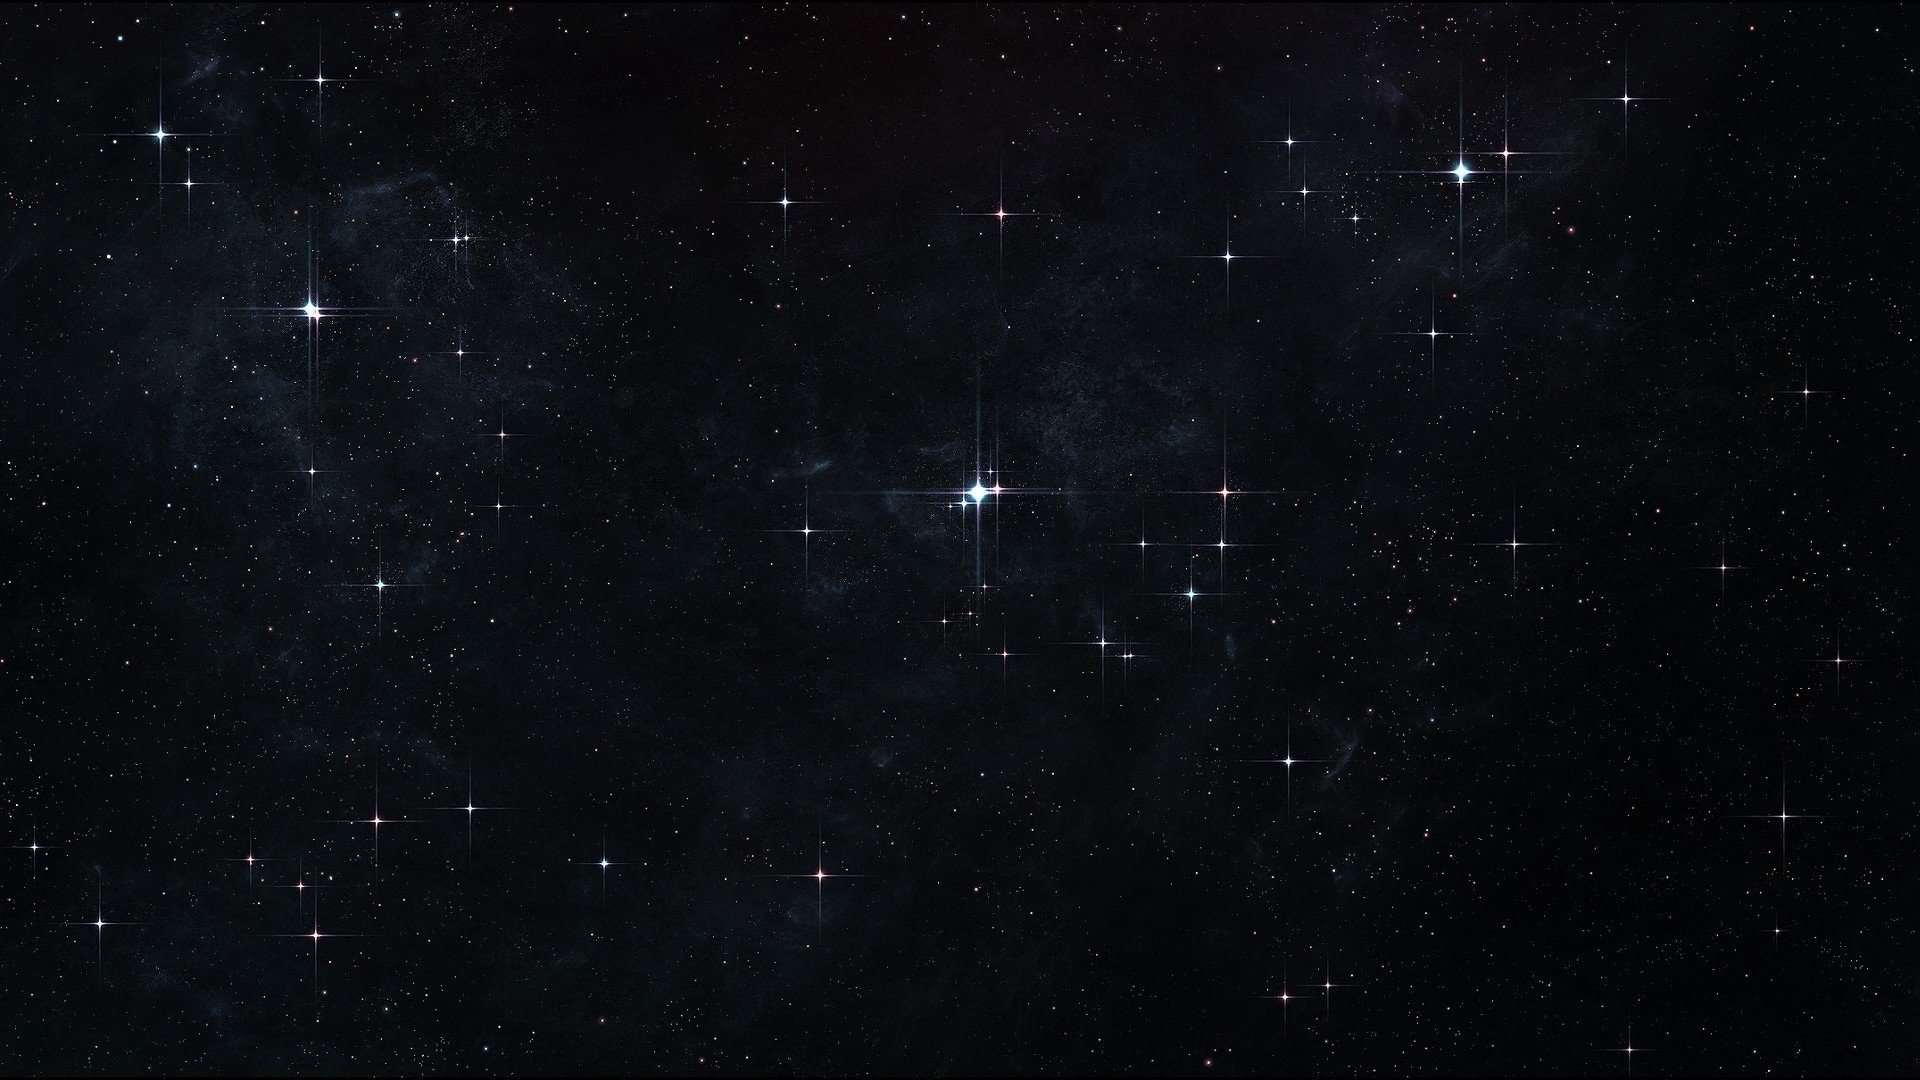
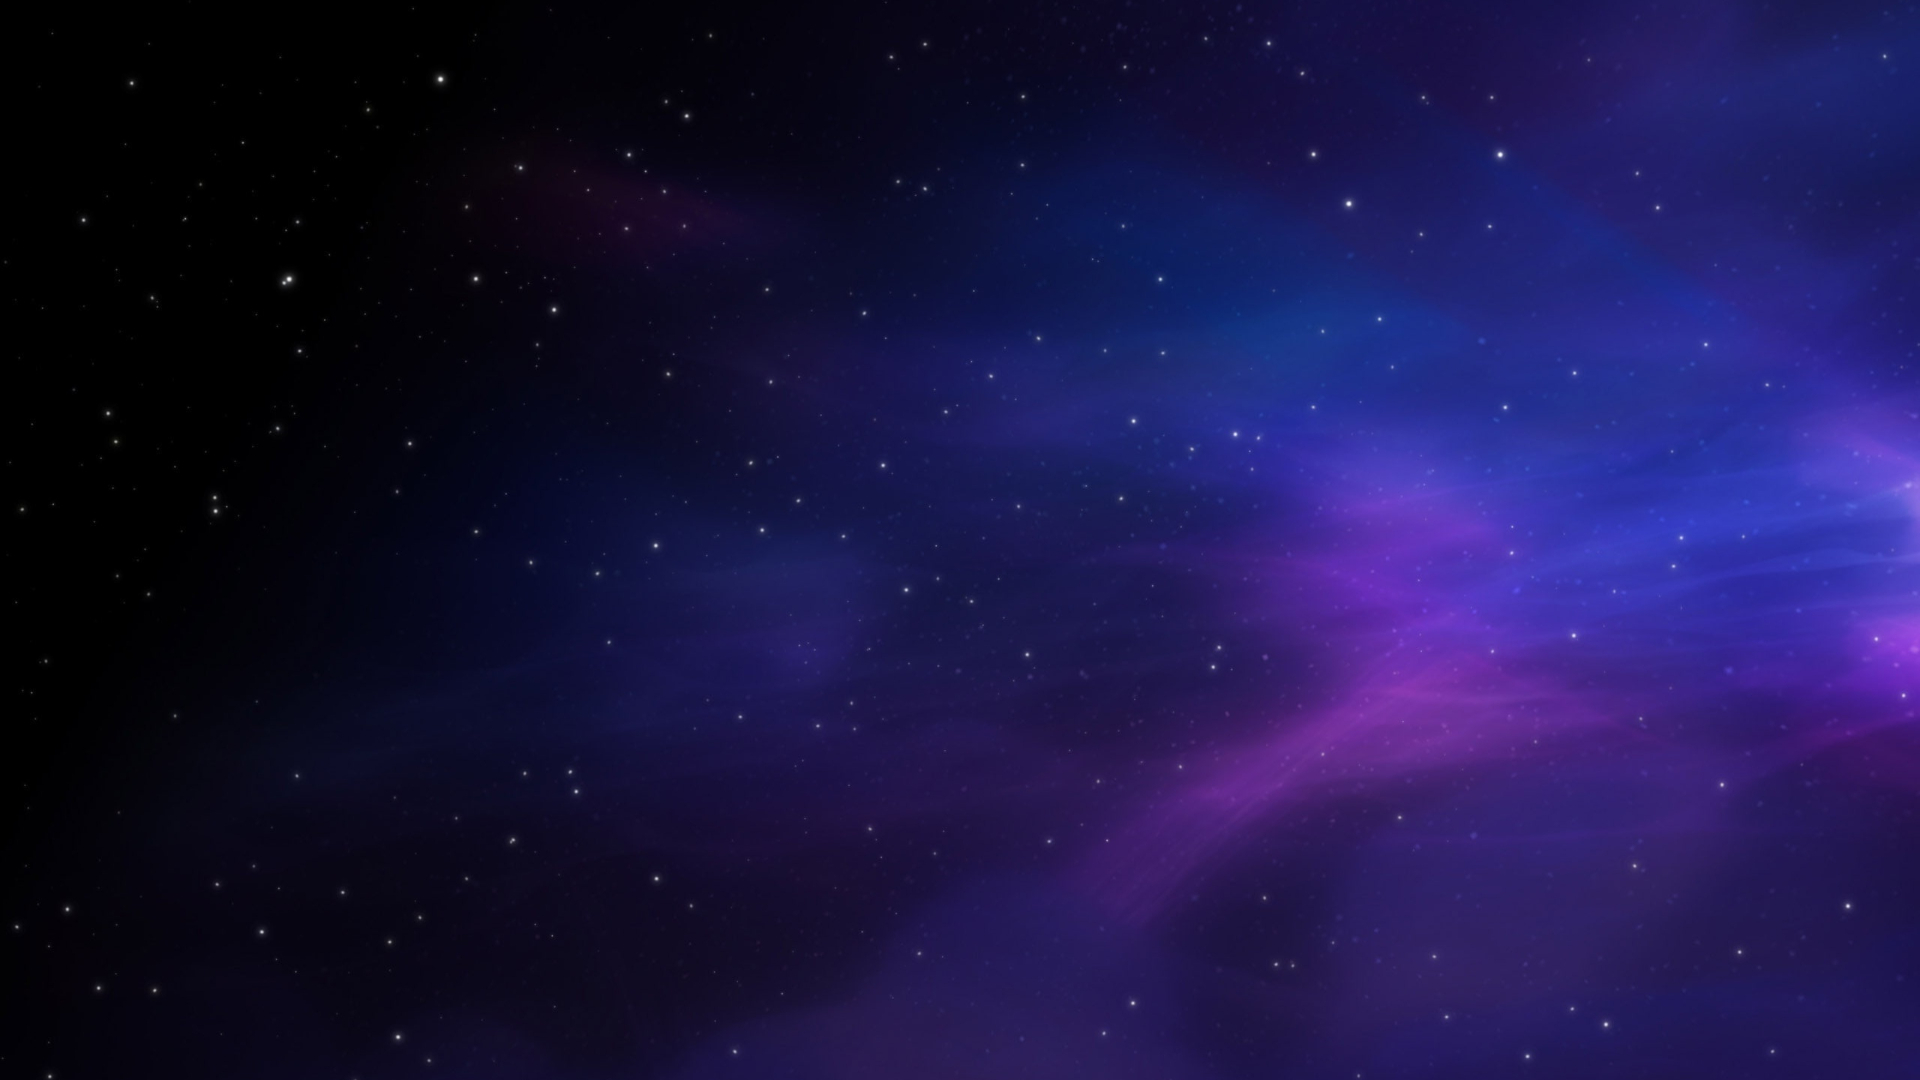
change background image and 3d model position

diff --git a/src/components/canvas/CrystalPlanet.jsx b/src/components/canvas/CrystalPlanet.jsx
@@ -19,7 +19,7 @@ const CrystalPlanet = () => {
         <primitive
           object={planet.scene}
           scale={isMobile ? 0.6 : 0.8}
-          position={isMobile ? [0, -1, -.5] : [0, -.5, .6]}
+          position={isMobile ? [0, -.3, -.5] : [0, -.5, -1.1]}
         />
       </group>
       <hemisphereLight intensity={1} groundColor="black" />

diff --git a/src/App.jsx b/src/App.jsx
@@ -19,7 +19,7 @@ const App = () => {
     <BrowserRouter>
       <div className="relative z-0 bg-primary">
         {!isMobile && <Cursor />}
-        <div className=" bg-cover bg-no-repeat bg-center">
+        <div className="bg-hero-pattern bg-cover bg-no-repeat bg-center">
           <Navbar />
           <Hero />
         </div>
